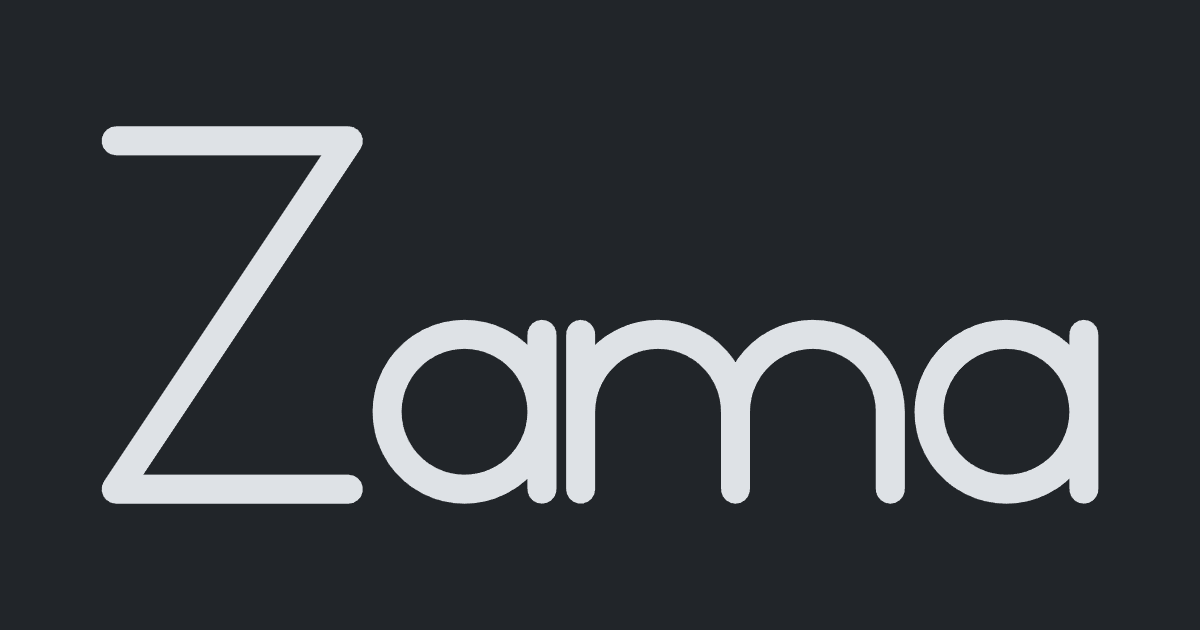
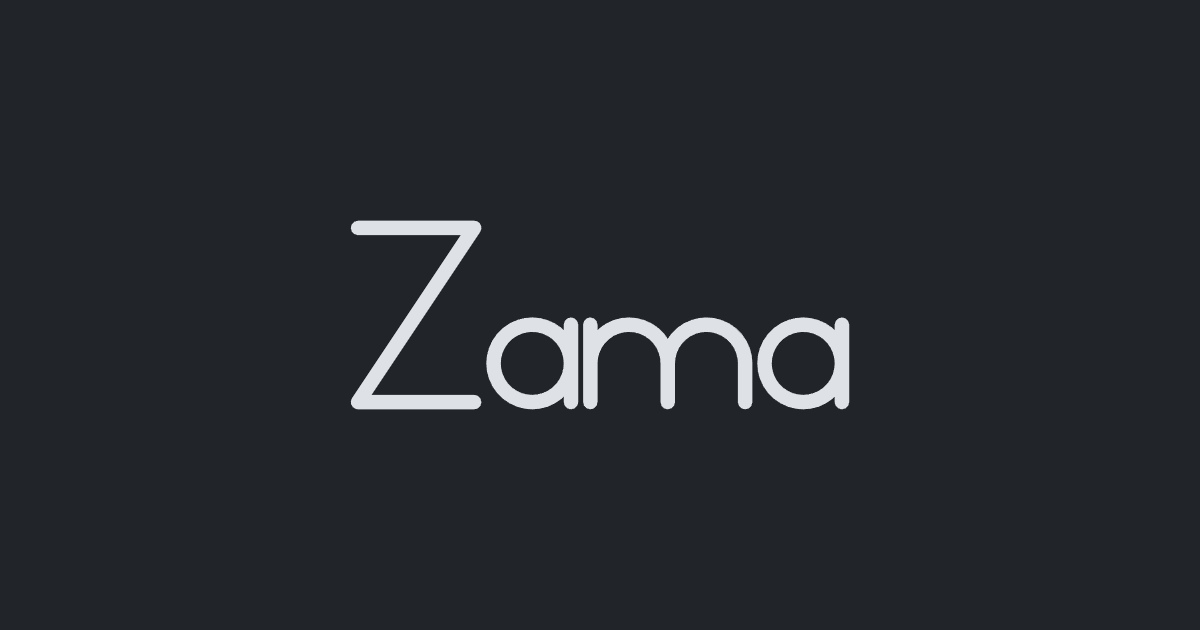
fix(seo): keep social card word inside square crops
Some previews crop the 1200x630 card to its central square, which cut the
Z and the last a. Scale the word to half the card width, centered, so it
fits every crop, and note the safe zone in the brand README.

Changed region(s): [[0.0617, 0.181, 0.925, 0.8143]]

diff --git a/scripts/brand/README.md b/scripts/brand/README.md
@@ -57,6 +57,9 @@ These are the numbers used in `assets/brand/logo-social.svg` (viewBox `0 0 62 24
 - Social card: export `assets/brand/logo-social.svg` on your machine as a 1200x630 PNG in the
   dark theme (`#212529` background) to `public/og-default.png`. The background must be opaque:
   keep `rx="0"` on the background rect, or the corners come out transparent.
+- Square crops: some previews (WhatsApp, compact LinkedIn and iMessage views) crop the card to
+  its central 630x630 px. The word must fit inside it, which is why the inner `<svg>` of
+  `logo-social.svg` is `x="25%" width="50%"`: the word spans about x 351..849 of 1200.
 - Favicon set: upload `assets/brand/logo-mark.svg` to the favicon generator and copy the
   result into `public/`. Then bump `faviconVersion` in `src/components/BaseHead.astro` so
   browsers fetch the new files.
